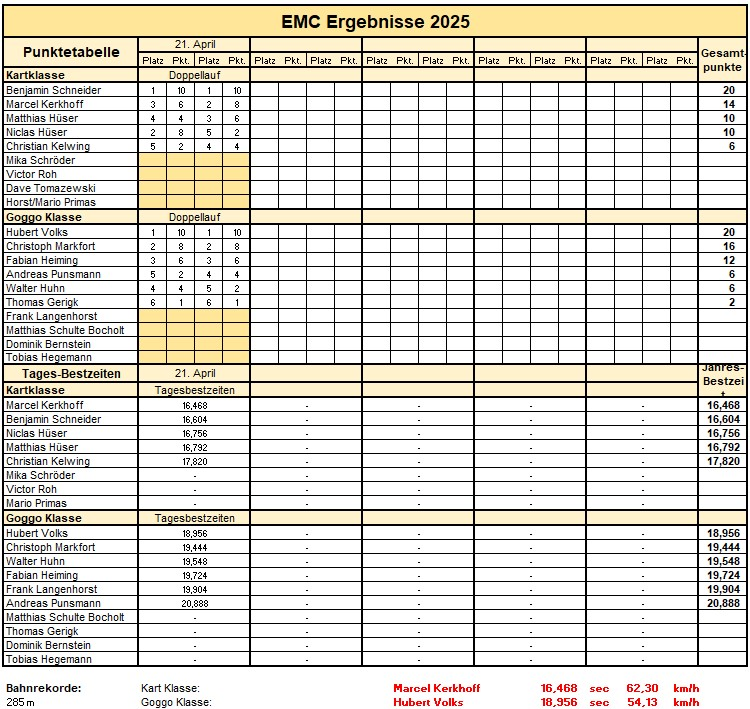
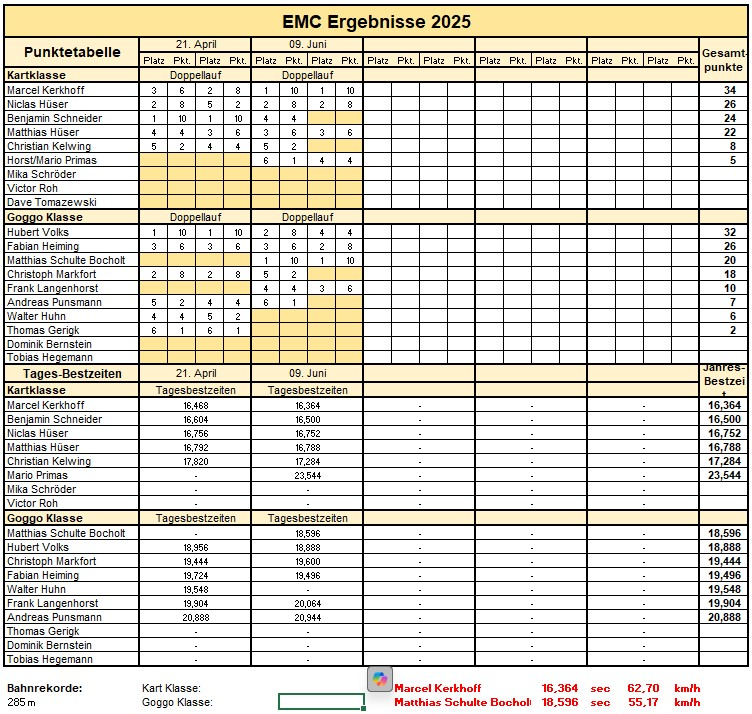
Juni 25

diff --git a/index.html b/index.html
@@ -7,6 +7,53 @@ description: Kartsport mit "Goggo"-Karts und konventionellen Karts
 <!-------------------------------------------------------------------------->
 <h2 align="center">Das Jahr 2025</h2>
 
+<h3 align="center">2. Lauf um den Jahrespokal des EMC am 9. Juni 2025</h3>
+<p align="justify">
+  Der 2. Lauf um den EMC Jahrespokal fand am Pfingstmontag statt. Der Wetter
+  blieb trocken und wir hatten bei mäßig warmen Temperaturen optimale
+  Fahrbedingungen. In der Goggo-Klasse gingen 6 Fahrzeuge an den Start, die
+  Kartfahrer hatten ebenfalls 6 Fahrzeuge an den Start gebracht. Wir haben uns
+  über die vielen Zuschauergefreut, die den Weg zur Bahn gefunden.
+</p>
+<p align="justify">
+  In der Goggo-Klasse war nach längerer Pause Matthias Schulte-Bocholt wieder
+  am Start und errang promt einen Doppelsieg. Hubert Volks belegte jeweils den
+  zweiten Platz. Auf den weiteren Plätzen folgten Fabian Heiming und Frank
+  Langenhorst. Andreas Punsmann und Christoph Markfort hatten mit technischen
+  Problemen zu kämpfen und konnten am 2. Lauf nicht mehr teilnehmen.
+
+</p>
+<p align="justify">
+  In der Kartklasse hatten einige Fahrer auch technische Probleme, daher mussten
+  Benjamin Schneider undChristian Kellwing auf den 2. Lauf verzichten. Marcel
+  Kerkhoff gewann beide Läufe, auf den weiteren Plätzen folgten Niclas und
+  Matthias Hüser sowie Horst Primas.
+</p>
+
+<figure class="gesamt">           <!-- 2 Bilder nebeneinander anordnen -->
+      <figure class="einzel2">    <!-- Originalgröße 1630 x 1400 einstellen -->
+           <img src="img/rennen/2025.06.09_goggo.jpg" alt="Sieger Goggo" />
+           <figcaption>Tagessieger Goggo</figcaption>
+      </figure>
+      <figure class="einzel2">
+           <img src="img/rennen/2025.06.09_kart.jpg" alt="Sieger Kart" />
+           <figcaption>Tagessieger Kart</figcaption>
+      </figure>
+</figure>
+<div class="textspalten2">       <!-- Bildunterschrift in 2 Spalten anordnen -->
+   <ul>
+    	<li>1. Matthias Schulte Bocholt</li>
+   		<li>2. Fabian Heiming</li>
+   		<li>3. Frank Langenhorst</li>
+   		<li>4. Hubert Volks</li>
+      <li>1. Marcel Kerkhoff</li>
+      <li>2. Niclas Hüser</li>
+      <li>3. Matthias Hüser</li>
+      <li>4. Horst Primass</li>
+      <li></li>
+   </ul>
+</div>
+
 <h3 align="center">1. Lauf um den Jahrespokal des EMC am 21. April 2025</h3>
 <p align="justify">
   Die Rennsaison des EMC wurde traditionell mit dem 1. Lauf am Ostermontag
